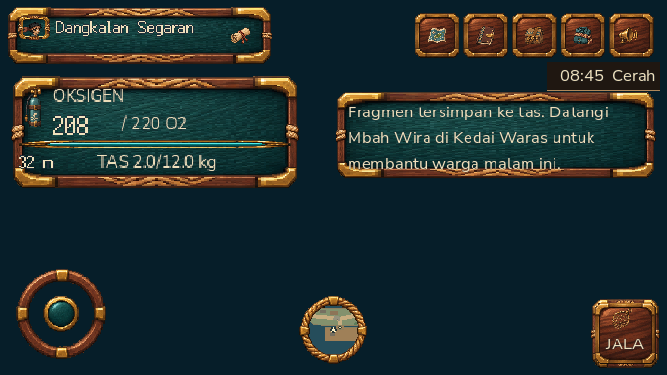
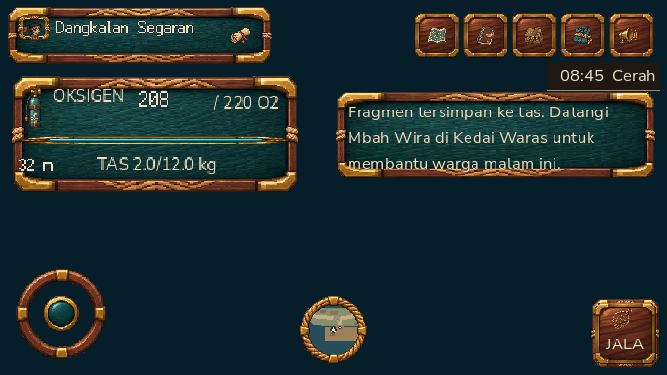
UI: keep compact dive labels clear of oxygen bar

Changed region(s): [[0.0, 0.2347, 0.4498, 0.528], [0.2999, 0.2347, 0.4198, 0.2933]]

diff --git a/docs/reviews/moodboard-hud-dive-2026-11-15.md b/docs/reviews/moodboard-hud-dive-2026-11-15.md
@@ -2,8 +2,8 @@
 
 The owner asked for the game to approach the supplied cozy pixel-art moodboard without making the HUD obstruct gameplay. At 667×375 touch landscape, the existing oxygen/depth/bag frame occupied a large top-left block. This candidate gives that viewport a compact layout: oxygen remains the focal number, the verified oxygen bar stays visible, and depth plus bag weight share one legible row. Portrait, desktop and non-dive layouts retain their existing arrangement. No gameplay, oxygen rule, touch target or art asset changed.
 
[2 lines of base64/hex data omitted]
 
-Godot 4.7.2 headless and native `scripts/tests/hud-short-landscape.gd` passed at 844×390 keyboard, 667×375 touch and 960×540 keyboard. The extended test bounds the phone gauge to 290×114 physical pixels, checks that depth and weight do not overlap and remain on one line, and enforces at least 16 physical pixels for the depth font. The native final log had no `SCRIPT ERROR` or `ERROR`; `git diff --check` passed. The first isolated-worktree attempt lacked Godot imports and `.runtime/world-map.json`; after importing and copying only that generated test fixture, the test passed. This initial environment failure is not a runtime game defect.
+Godot 4.7.2 headless and native `scripts/tests/hud-short-landscape.gd` passed at 844×390 keyboard, 667×375 touch and 960×540 keyboard. `scripts/tests/hud-oxygen.gd` passed its portrait, landscape, critical oxygen, loss-feedback and bar/label non-overlap cases after the final correction. The extended short-landscape test bounds the phone gauge to 290×122 physical pixels, checks that depth and weight do not overlap and remain on one line, and enforces at least 16 physical pixels for the depth font. The native final log had no `SCRIPT ERROR` or `ERROR`; `git diff --check` passed. The first isolated-worktree attempt lacked Godot imports and `.runtime/world-map.json`; after importing and copying only that generated test fixture, the test passed. This initial environment failure is not a runtime game defect.
 
 Tooling: Godot 4.7.2 Compatibility native/headless, no new dependency or license. Source is `GameHud.gd`; the existing Bahari HUD artwork is reused. Next gate after integration: inspect this frame in an actual dive at 667×375 and 844×390, including low oxygen and boss action states, then check Windows/S23 visibility and frame pacing. This package alone does not establish full visual parity with the moodboard.
